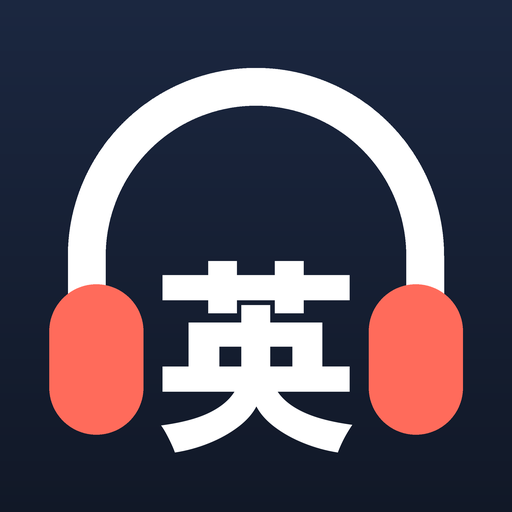
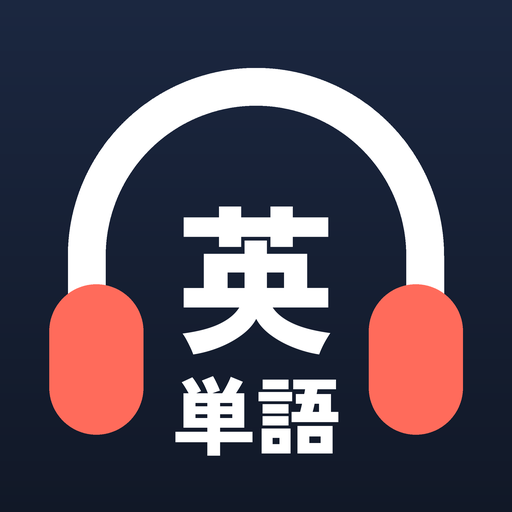
ながら英単語：1.4.0（新しいホーム）に合わせて画面の画像・説明・無料の範囲・アイコンを更新（Ko 2026-11-18）
- 画面の画像を新しい iPhone 型に差し替え、並びを 1,2,3,4,11,9,10,12,6,7,8 に。カード詳細（5.png）を外す
- 画像の説明を新しい名前に（聞き方・ながら見・▶ 聞く）
- 特長：ホームで ▶ 聞く、聞き方 4 つと英語・日本語の速さを別々に、の一文・一項目を足す
- 無料の範囲を「入門と TOEIC 頻出の最初の 100 語ずつと、14 の業界の単語帳の最初の 20 語ずつ」に（サポートの質問も）。買い切り 850 円・広告なしを明記
- アイコンを案 D（英／単語）に

Changed region(s): [[0.3125, 0.375, 0.6875, 0.9062]]

diff --git a/src/content/apps/nagara-eitango/index.md b/src/content/apps/nagara-eitango/index.md
@@ -14,25 +14,23 @@ video:
 # 画面の画像。src/assets/apps/nagara-eitango/ に置いて並べる（空のあいだは枠だけ）
 screenshots:
   - src: ../../../assets/apps/nagara-eitango/1.png
-    alt: ホーム。ながら聞き・○✕で覚える・テストの 3 つの入口
+    alt: ホーム。▶ 聞くを押すだけで、選んだ範囲を聞ける
   - src: ../../../assets/apps/nagara-eitango/2.png
     alt: 再生画面。読み上げ中の要素がハイライトされる
   - src: ../../../assets/apps/nagara-eitango/3.png
-    alt: ○✕で覚える。答えを見て、わかる・わからないで判定
+    alt: ○✕で覚える。画面でも、イヤホンのボタンでも判定できる
   - src: ../../../assets/apps/nagara-eitango/4.png
-    alt: 単語一覧。右端の帯でセクションへ飛べる
-  - src: ../../../assets/apps/nagara-eitango/5.png
-    alt: カード詳細。意味・例文・解説・関連表現
+    alt: 単語一覧。いま聞いている範囲が色で分かる
+  - src: ../../../assets/apps/nagara-eitango/11.png
+    alt: ながら見の小窓。ほかのアプリの上で、音を出さずに語と例文を眺める（iPhone）
   - src: ../../../assets/apps/nagara-eitango/9.png
     alt: ロック画面のライブアクティビティ。聞きながら、そのまま ○✕ で記録（iPhone）
   - src: ../../../assets/apps/nagara-eitango/10.png
     alt: ホーム画面のウィジェット。単語カードを 1 語ずつ、○✕ で記録（iPhone）
-  - src: ../../../assets/apps/nagara-eitango/11.png
-    alt: 流し見の小窓。ほかのアプリの上で、音を出さずに語と例文を眺める（iPhone）
   - src: ../../../assets/apps/nagara-eitango/12.png
     alt: ダイナミックアイランド。ほかのアプリを使いながら ○✕ で記録（iPhone）
   - src: ../../../assets/apps/nagara-eitango/6.png
-    alt: プリセット編集。読み上げる要素と順番、回数、間を決める
+    alt: 聞き方。読み上げる要素と順番、回数、間を決める
   - src: ../../../assets/apps/nagara-eitango/7.png
     alt: 4択で答える。答えると大きな ○✕ が出て、そのままカードを見直せる
   - src: ../../../assets/apps/nagara-eitango/8.png
@@ -45,7 +43,8 @@ order: 1
 ---
 
 - **解説・例文まで、全部音声**単語と意味だけでなく、解説と例文まで読み上げます。
-- **画面を見ずに聞き流せる**通勤や家事のあいだにイヤホンで。ロック画面やイヤホンのボタンで操作できます。
+- **画面を見ずに聞き流せる**単語帳と範囲を選んで ▶ 聞くを押すだけ。通勤や家事のあいだにイヤホンで。ロック画面やイヤホンのボタンで操作できます。
 - **約 3,600 語**入門 575 語、TOEIC 頻出 1,439 語、14 業界の語 1,605 語を収録しています。
+- **聞き方を自分で決められる**読み上げる要素と順番、間、回数を「聞き方」として保存できます。しっかり・ひと通り・さっと・日→英の 4 つ入り。速さは英語と日本語を別々に決められます。
 - **○／✕ の 2 択で覚える**わかれば ○、あやしければ ✕。答えに合わせて、次に出す時期を決めます。
-- **買い切り**入門と TOEIC 頻出の最初の 100 語ずつ（計 200 語）は無料です。一度の購入で全部の語が使えます。月額の課金はありません。
+- **買い切り**入門と TOEIC 頻出の最初の 100 語ずつと、14 の業界の単語帳の最初の 20 語ずつは無料で、すべての機能を使えます。残りの語は買い切り 850 円。月額の課金も広告もありません。
